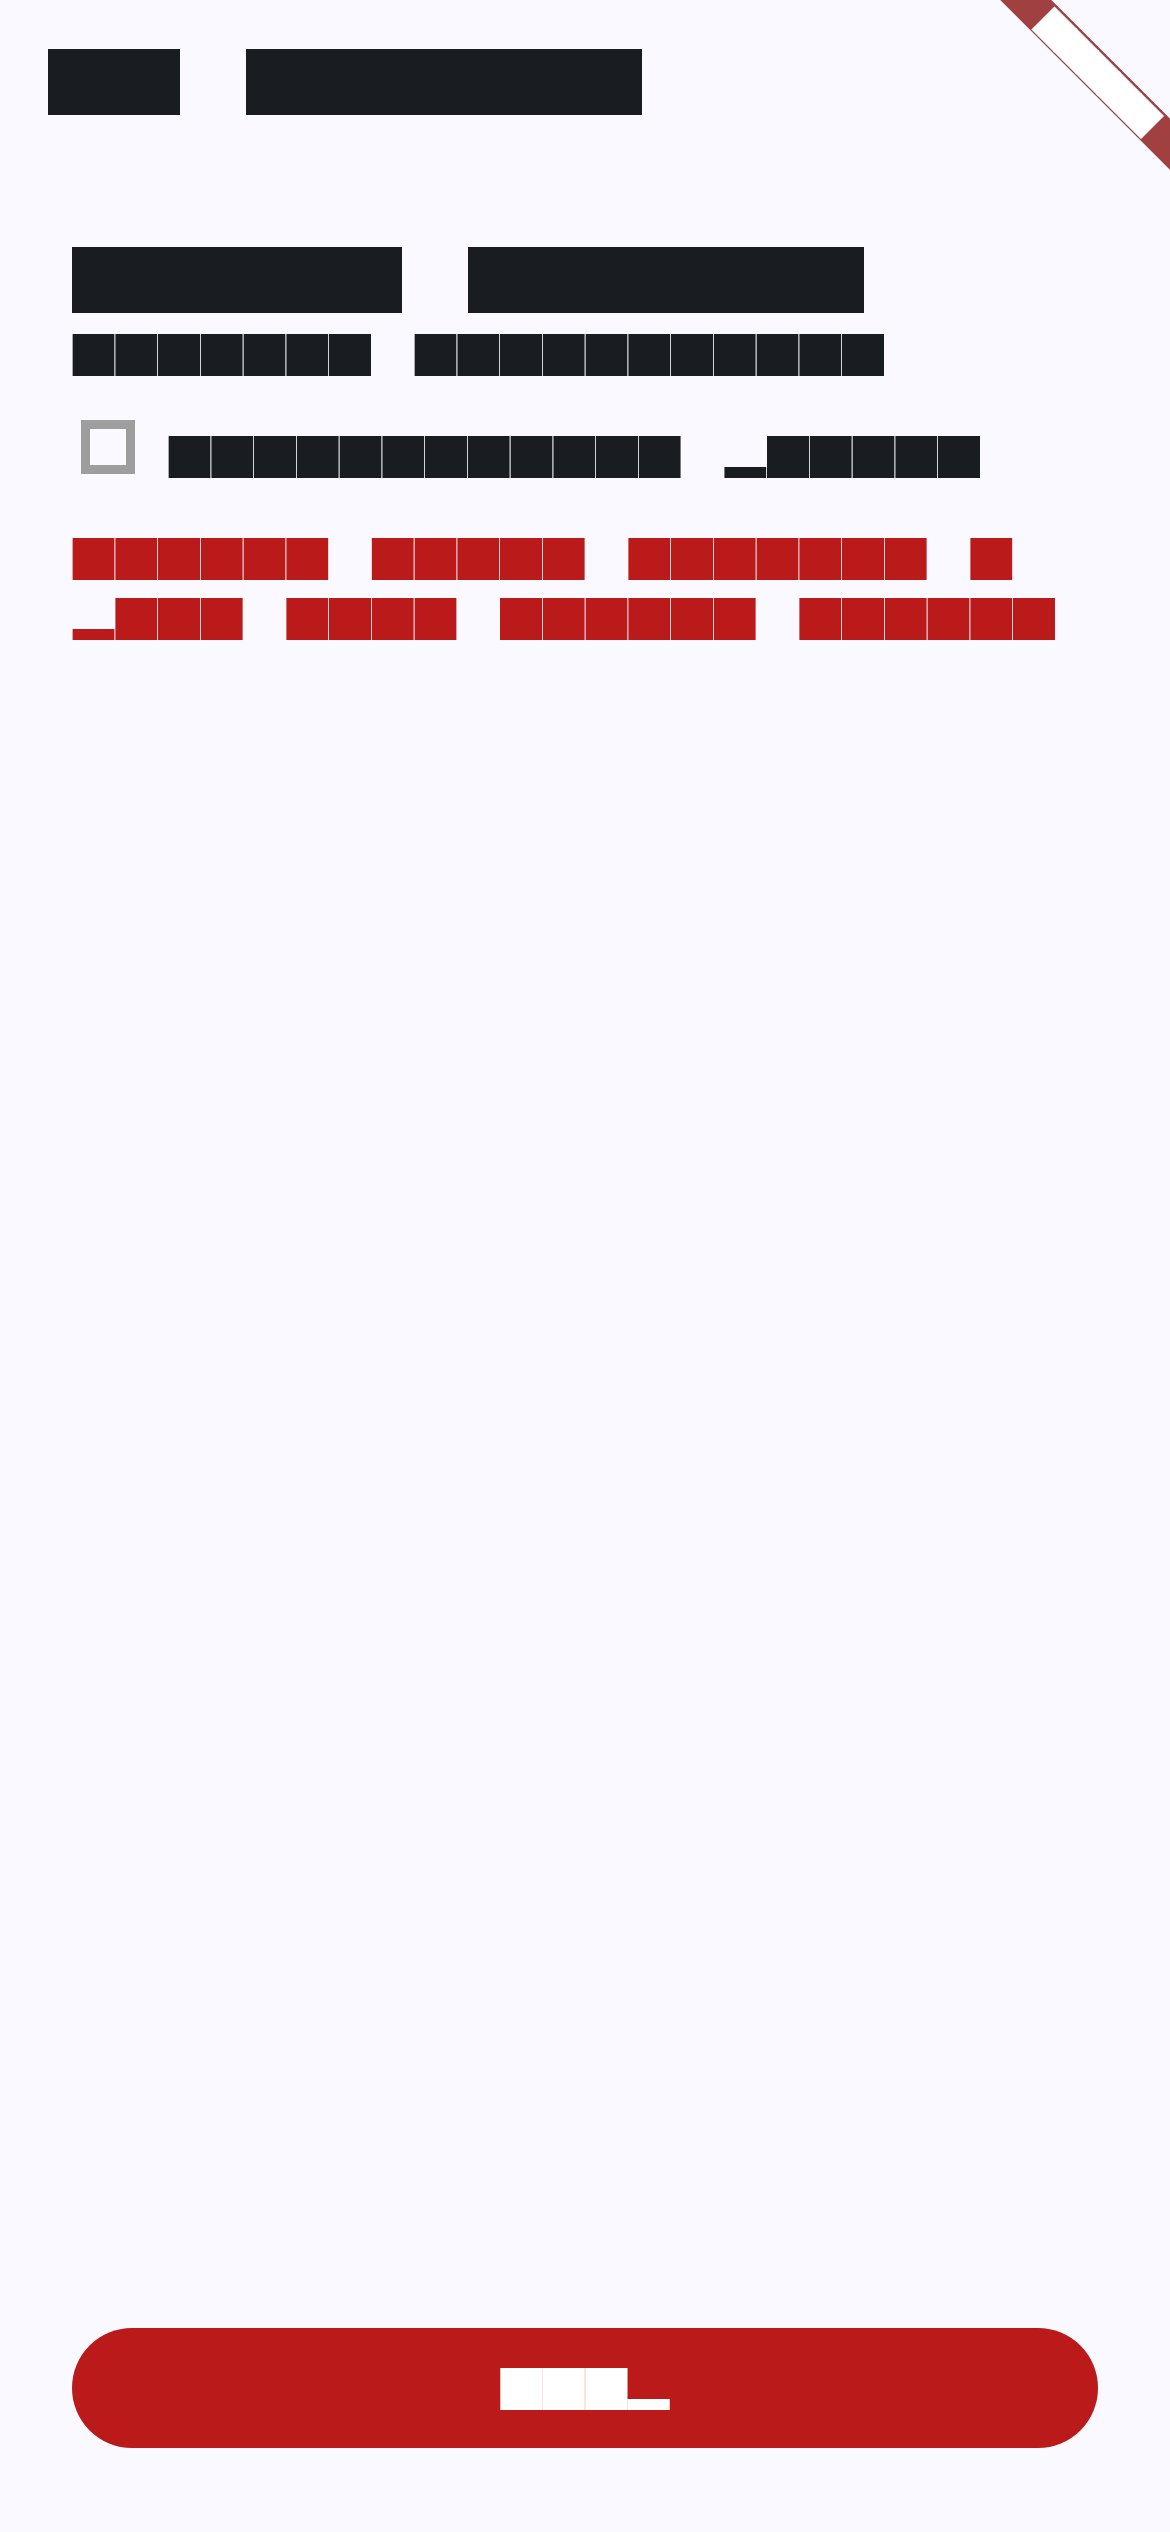
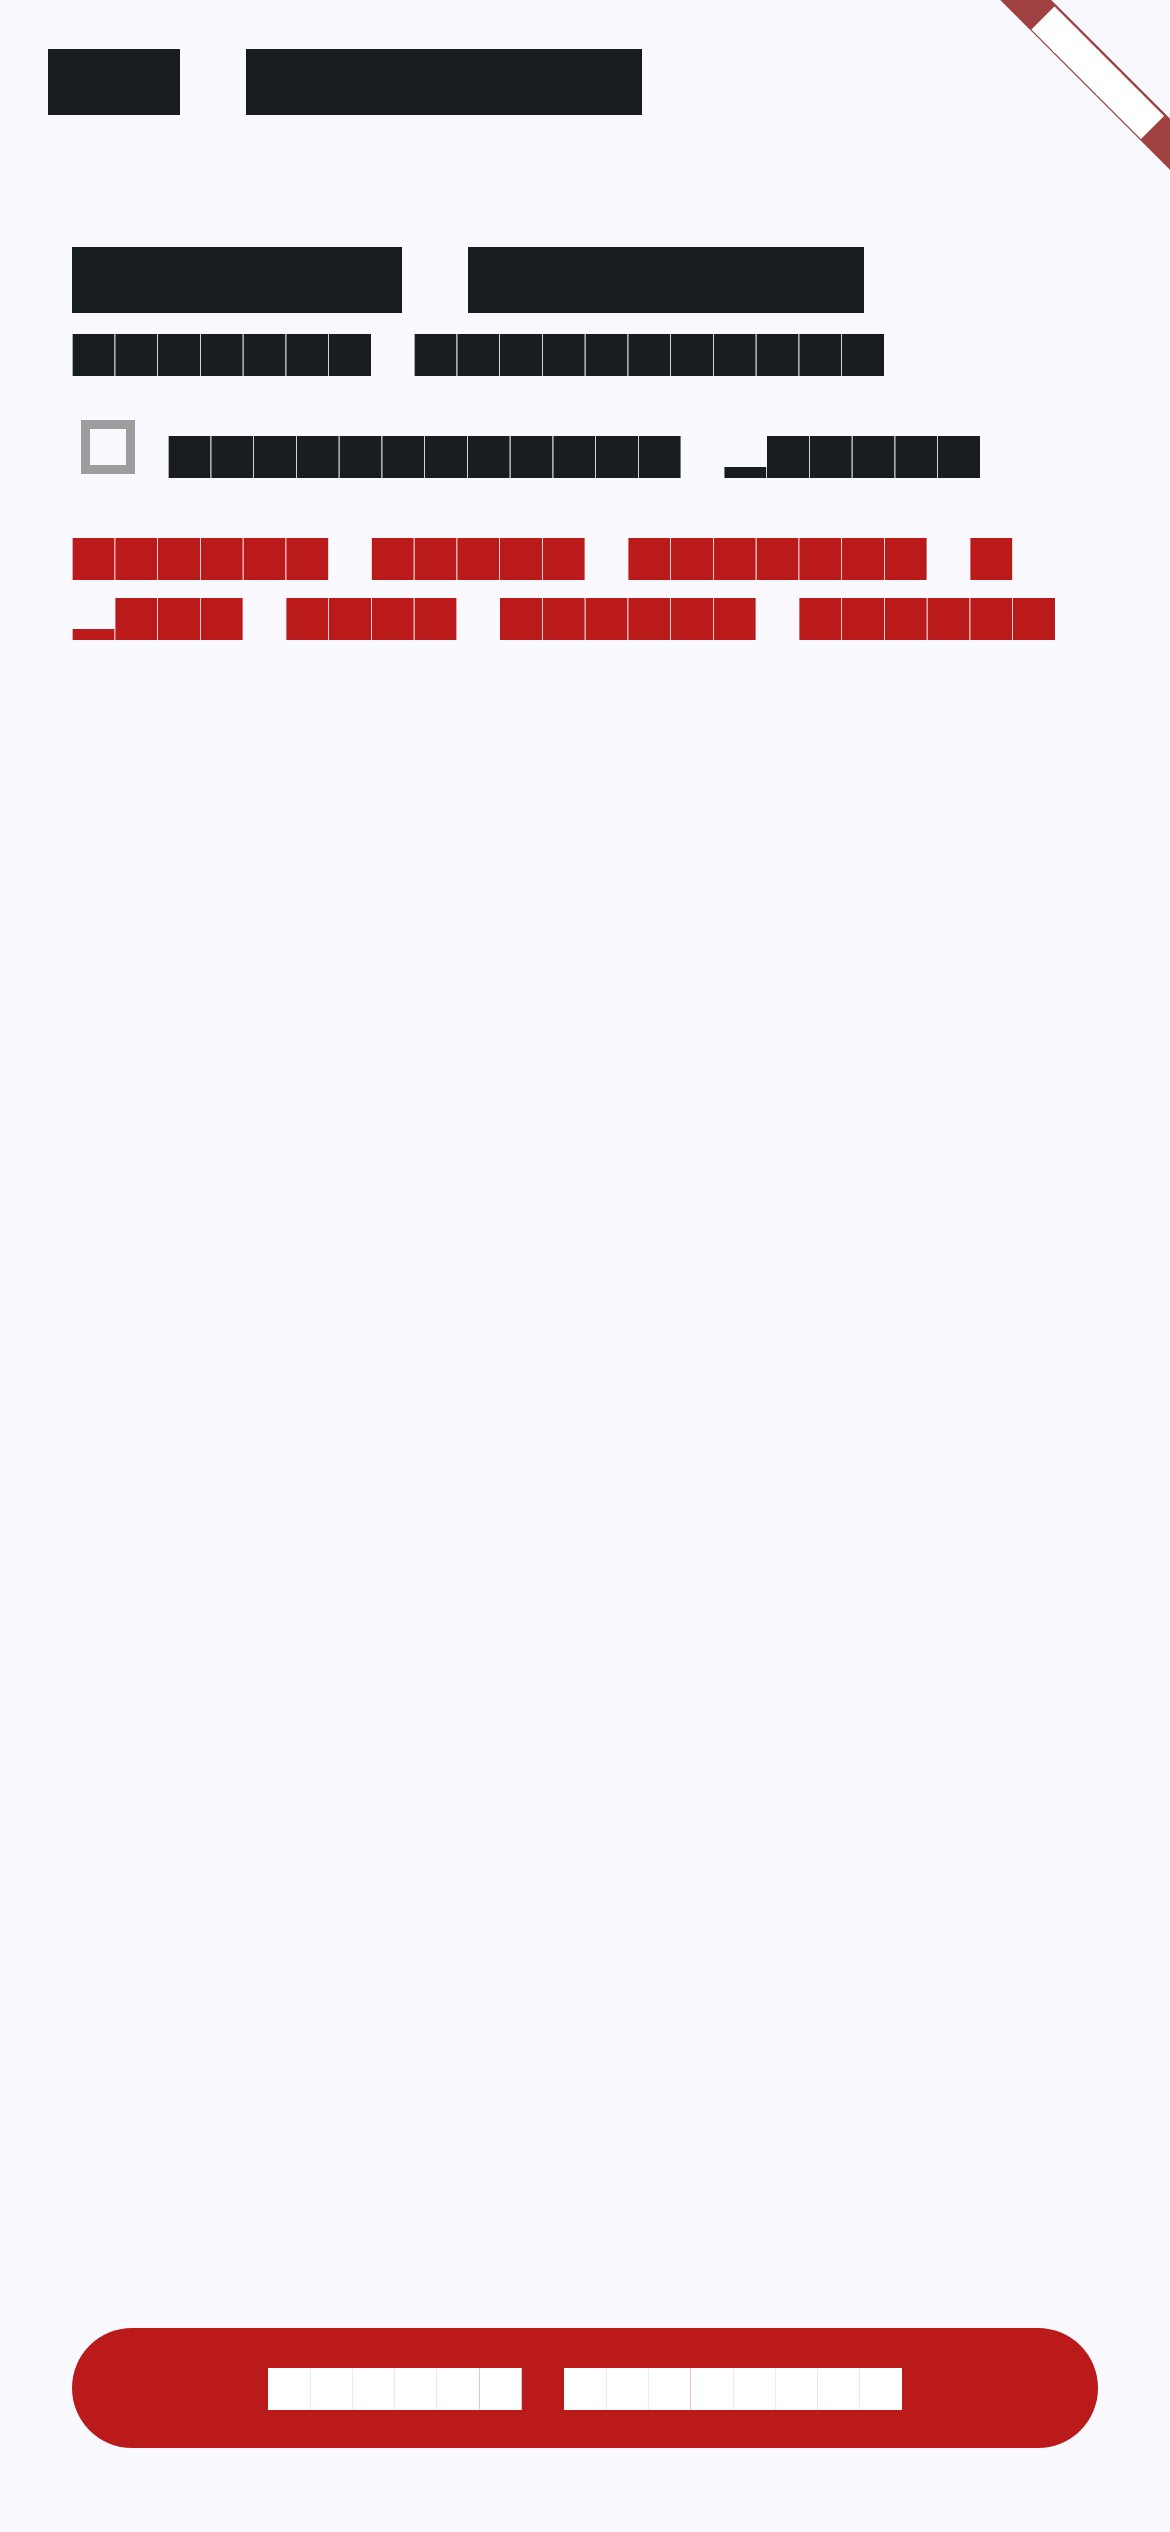
Use Comenzar tracking and Finalizar tracking button labels

Changed region(s): [[0.2154, 0.936, 0.4923, 0.9672], [0.5231, 0.936, 0.7692, 0.9672]]

diff --git a/integration_test/screenshot_flow_test.dart b/integration_test/screenshot_flow_test.dart
@@ -66,12 +66,12 @@ void main() {
 
     await saveScreenshot(binding, '04-flight-details');
 
-    await tester.tap(find.text('Start'));
+    await tester.tap(find.text('Start tracking'));
     await tester.pumpAndSettle(const Duration(seconds: 4));
 
     await saveScreenshot(binding, '05-broadcasting');
 
-    expect(find.text('Stop'), findsOneWidget);
+    expect(find.text('Finish tracking'), findsOneWidget);
     await saveScreenshot(binding, '06-stop');
   });
 }
